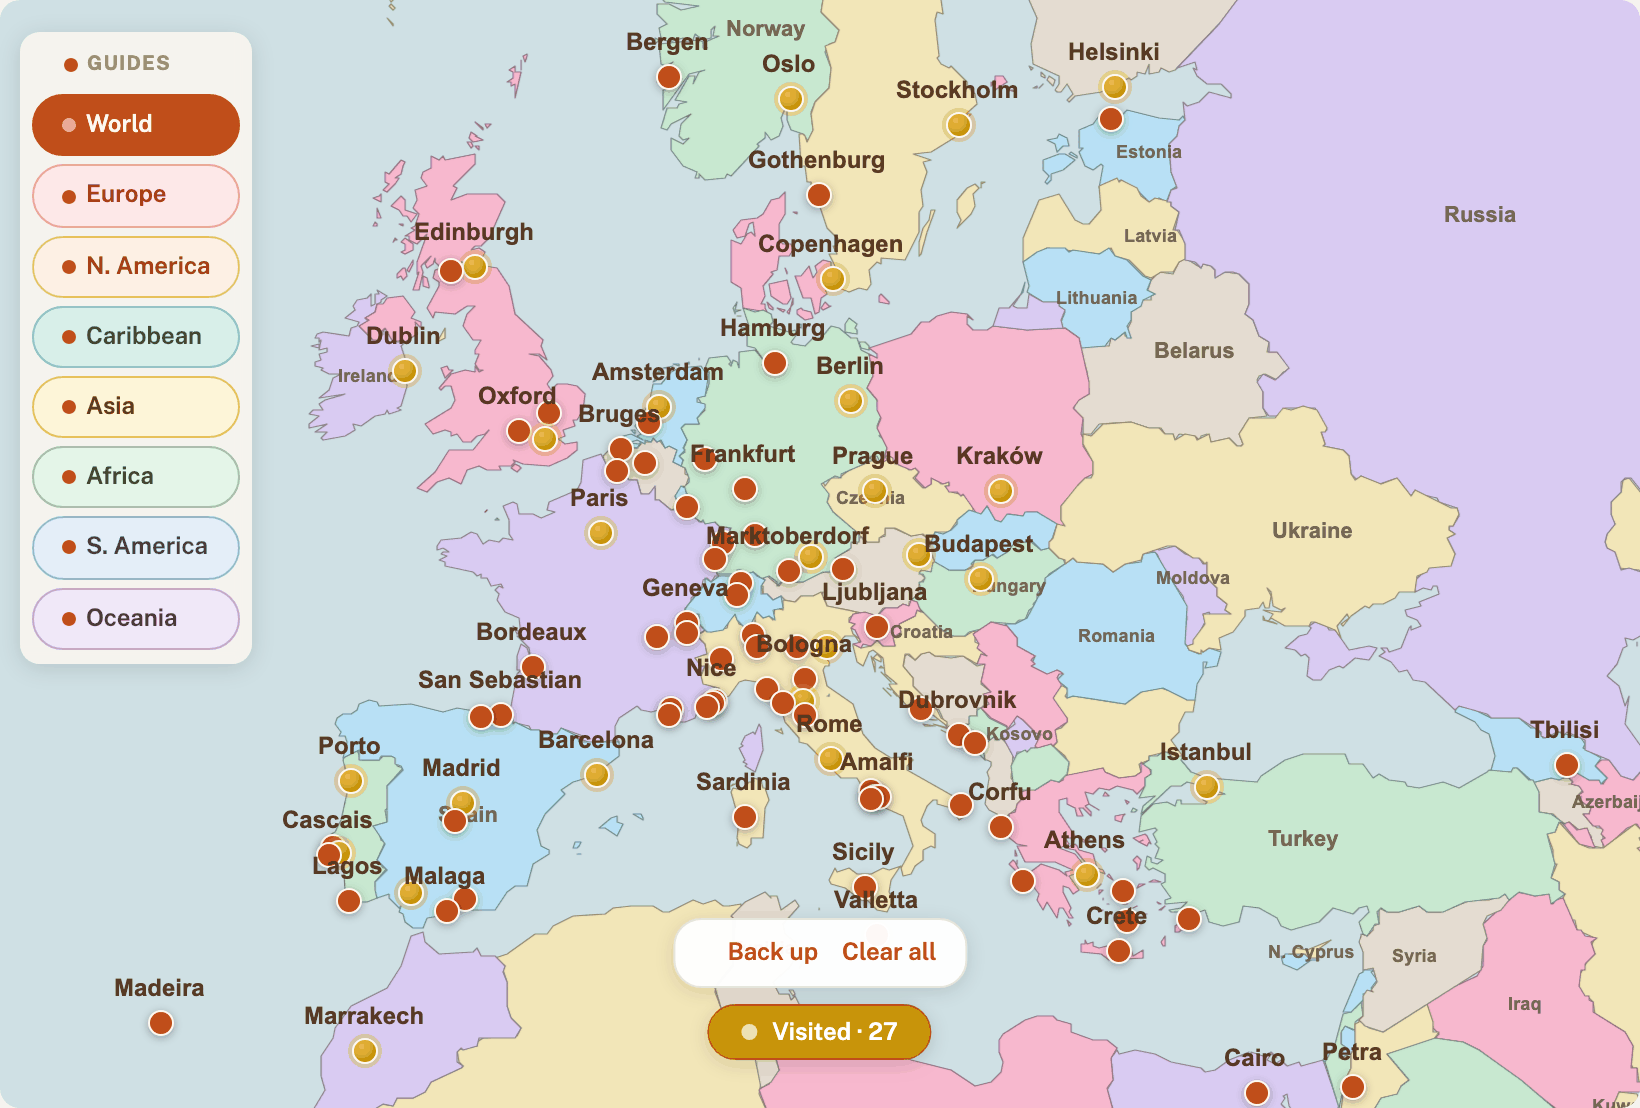
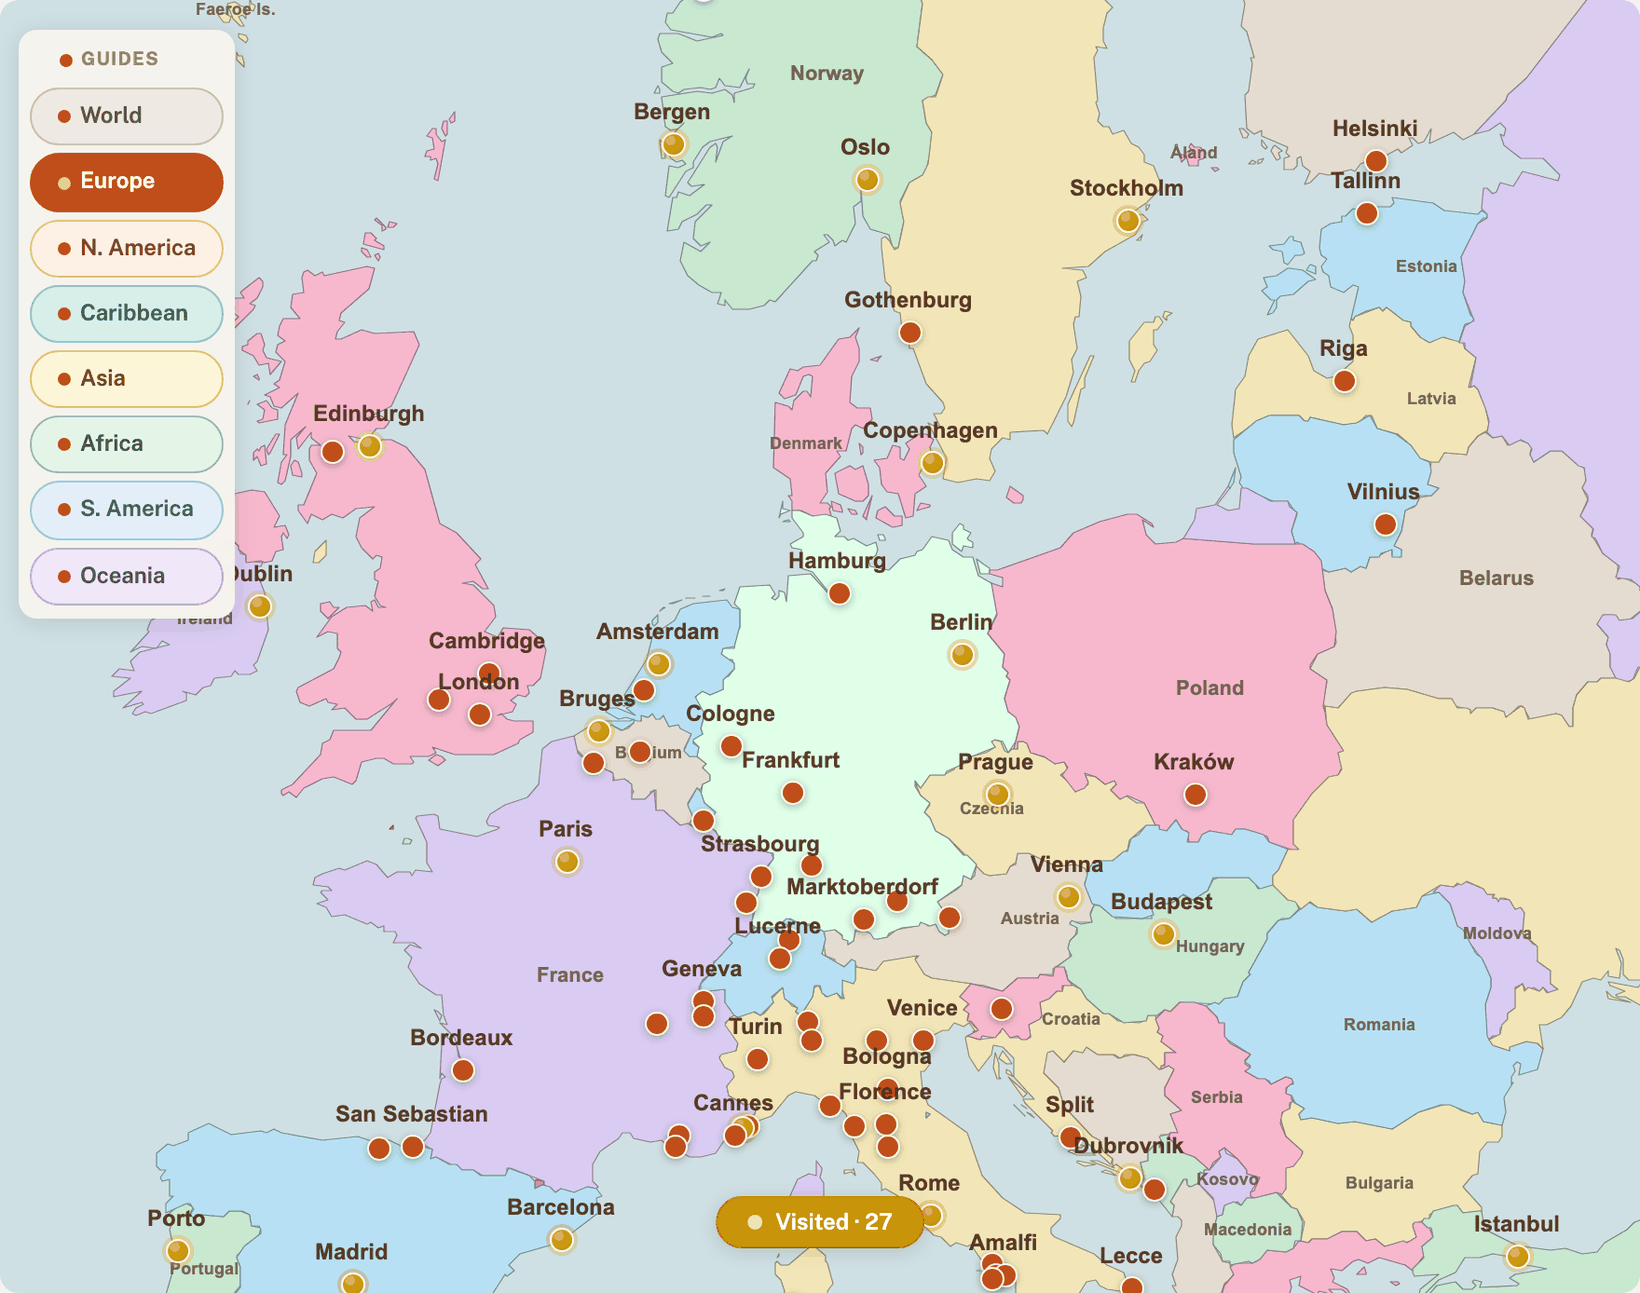
guides intro: reshoot the world map screenshot
The old one was stale — its action bar predated the "Restored N places to this
browser." confirmation the map shows today — and its pins were clustered into
count bubbles rather than separated.

Three things had to be driven through the page's own controls, and each was a
silent failure on the first attempts:

- The Leaflet instance is a `const map` in module scope, not window.map, so
  map.setView() does nothing at all and the shot stays at world zoom. Click the
  "Europe" pill instead.
- The #mine= hash restores the list but does NOT switch the Visited display on
  (the old recipe claimed it did). Without clicking the pill every pin renders
  terracotta and the gold-against-terracotta contrast — the only thing this card
  is selling — is missing.
- At the Europe default the pins cluster into 41 count bubbles and no city is
  legible. Two zoom steps plus a drag to centre the mass takes it to zero.

Saved as a quantized 192-colour PNG: 232 KB against 748 KB full-colour, where a
JPEG of flat fills and small labels fringes every city name. Declared height
corrected 1108 -> 1293; the old value did not match the file.

Recipe in the comment now records all of it so the next reshoot is one pass.

diff --git a/Travel-Website/guides/index.html b/Travel-Website/guides/index.html
@@ -859,16 +859,32 @@
       <p>Every guide has an <strong>I&rsquo;ve Been</strong> button. Tap it and that city turns gold &mdash; gold for where you have been, terracotta for what is still ahead. Your map, in your own browser.</p>
       <a class="gx-btn" href="/maps/world/">Open the world map</a>
     </div>
-    <!-- Screenshot: the live world map with a reader's own list on it. Load
-         /maps/world/#mine=<slugs> at 820px / 2x, let the pins restore (the
-         hash paints them gold and turns the Visited display on by itself),
-         set the view over Europe where the pins separate instead of
-         clustering, hide the zoom and attribution controls, and capture the
-         #map element. The gold-against-terracotta contrast IS the feature: a
-         map of all-terracotta pins is only an index. -->
+    <!-- Screenshot: the live world map with a reader's own list on it. Reshot
+         2026-08-18 — the previous one was stale (its bar predated the "Restored
+         N places to this browser." confirmation) and its pins were clustered.
+         Recipe, and every step matters:
+           · Load /maps/world/#mine=<slugs> at 880x940 / 2x and let it settle.
+           · CLICK the "Europe" pill in #left-panel. Do NOT call map.setView —
+             the Leaflet instance is a `const map` in module scope and is not on
+             window, so a setView call silently does nothing and you ship the
+             world view.
+           · CLICK #visited-pill-mobile. The hash restores the list but does NOT
+             turn the Visited display on, so without this every pin renders
+             terracotta and the one thing the card is selling is absent.
+           · Zoom in TWO steps via .leaflet-control-zoom-in, then drag to centre
+             the pin mass. At the Europe default the pins cluster into count
+             bubbles (41 of them) and no individual city is legible; two steps
+             takes it to zero clusters.
+           · Hide #mine-hint (a transient toast) and the zoom/attribution
+             controls, then capture the #map element.
+           · Save as a QUANTIZED png (192 colours): flat map fills plus text
+             give 232 KB against 748 KB full-colour, where a JPEG of the same
+             thing fringes every city label.
+         The gold-against-terracotta contrast IS the feature: a map of
+         all-terracotta pins is only an index. -->
     <span class="gi-shot"><img src="/assets/guides-intro/visited-map.png"
       alt="The world map over Europe: gold pins on the cities marked as visited, terracotta pins on the ones still ahead, and a pill at the bottom reading Visited 27"
-      loading="lazy" width="1640" height="1108"></span>
+      loading="lazy" width="1640" height="1293"></span>
   </div>
 </section>
 
